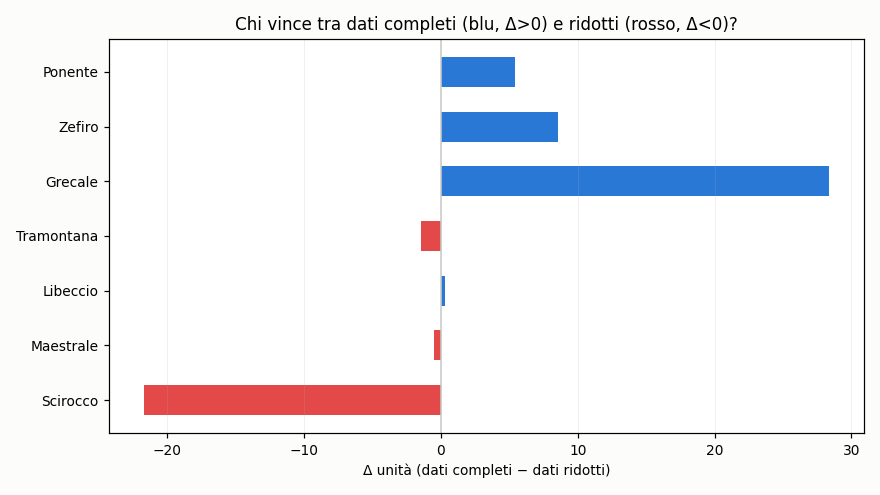
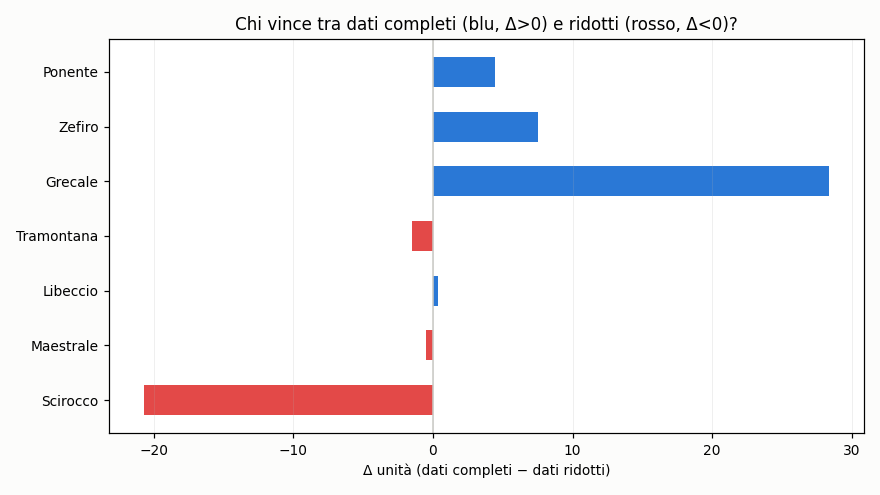
aggiornamento 2026-07-25 16:16 UTC

diff --git a/README.md b/README.md
@@ -37,9 +37,9 @@ scala in unità). Non indichiamo quale.
 
 ## Grafici
 
-![Coppie: dati completi vs ridotti](https://raw.githubusercontent.com/Kitem19/ippica-track-record/main/charts/equity_pairs.png?v=197bf510)
+![Coppie: dati completi vs ridotti](https://raw.githubusercontent.com/Kitem19/ippica-track-record/main/charts/equity_pairs.png?v=7a2865bf)
 
-![Delta per coppia](https://raw.githubusercontent.com/Kitem19/ippica-track-record/main/charts/coppie_delta.png?v=6e490fa1)
+![Delta per coppia](https://raw.githubusercontent.com/Kitem19/ippica-track-record/main/charts/coppie_delta.png?v=5213992c)
 
 ### Come leggere i grafici
 
@@ -56,34 +56,34 @@ scala in unità). Non indichiamo quale.
 
 _Poche giornate: numeri ancora rumorosi, si conclude a fine fase (31/7)._
 
-- **Scirocco**: dati ridotti avanti di 21,7u — qui gli extra non aiutano
+- **Scirocco**: dati ridotti avanti di 20,7u — qui gli extra non aiutano
 - **Maestrale**: in sostanziale pareggio — troppo presto per dire
 - **Libeccio**: in sostanziale pareggio — troppo presto per dire
 - **Tramontana**: in sostanziale pareggio — troppo presto per dire
 - **Grecale**: dati completi avanti di 28,4u
-- **Zefiro**: dati completi avanti di 8,5u
-- **Ponente**: dati completi avanti di 5,4u
+- **Zefiro**: dati completi avanti di 7,5u
+- **Ponente**: dati completi avanti di 4,4u
 
 ## Classifica (conteggio ufficiale)
 
 | Sistema | Cassa (u) | P/L (u) | Selezioni | Escluse | Stato |
 |---|---|---|---|---|---|
 | Grecale | 28,1 | +8,1 | 297 | 4 | 🟢 |
-| Scirocco-B | 21,7 | +1,7 | 220 | 0 | 🟢 |
-| Zefiro | 8,1 | -11,9 | 259 | 5 | 🟢 |
-| Ponente | 4,5 | -15,5 | 206 | 28 | 🟢 |
-| Tramontana-B | 1,2 | -18,8 | 323 | 6 | ⏸ |
-| Maestrale-B | 0,0 | -20,0 | 100 | 228 | 🛑 |
-| Scirocco | 0,0 | -20,1 | 80 | 236 | 🛑 |
-| Grecale-B | 0,0 | -20,2 | 137 | 167 | 🛑 |
-| Tramontana | 0,0 | -20,3 | 45 | 300 | 🛑 |
-| Zefiro-B | 0,0 | -20,5 | 143 | 66 | 🛑 |
-| Maestrale | 0,0 | -20,5 | 104 | 248 | 🛑 |
-| Libeccio | 0,0 | -20,6 | 181 | 157 | 🛑 |
-| Libeccio-B | 0,0 | -20,9 | 119 | 173 | 🛑 |
-| Ponente-B | 0,0 | -21,0 | 63 | 83 | 🛑 |
+| Scirocco-B | 20,7 | +0,7 | 221 | 0 | 🟢 |
+| Zefiro | 7,1 | -12,9 | 260 | 5 | 🟢 |
+| Ponente | 3,5 | -16,5 | 207 | 28 | 🟢 |
+| Tramontana-B | 1,2 | -18,8 | 323 | 7 | ⏸ |
+| Maestrale-B | 0,0 | -20,0 | 100 | 229 | 🛑 |
+| Scirocco | 0,0 | -20,1 | 80 | 237 | 🛑 |
+| Grecale-B | 0,0 | -20,2 | 137 | 168 | 🛑 |
+| Tramontana | 0,0 | -20,3 | 45 | 301 | 🛑 |
+| Zefiro-B | 0,0 | -20,5 | 143 | 67 | 🛑 |
+| Maestrale | 0,0 | -20,5 | 104 | 249 | 🛑 |
+| Libeccio | 0,0 | -20,6 | 181 | 158 | 🛑 |
+| Libeccio-B | 0,0 | -20,9 | 119 | 174 | 🛑 |
+| Ponente-B | 0,0 | -21,0 | 63 | 84 | 🛑 |
 
-_Aggiornato: 25/07 18:11_
+_Aggiornato: 25/07 18:16_
 ---
 *Nessuna delle informazioni qui pubblicate costituisce consiglio di gioco.
 Il gioco può causare dipendenza — 18+.*
